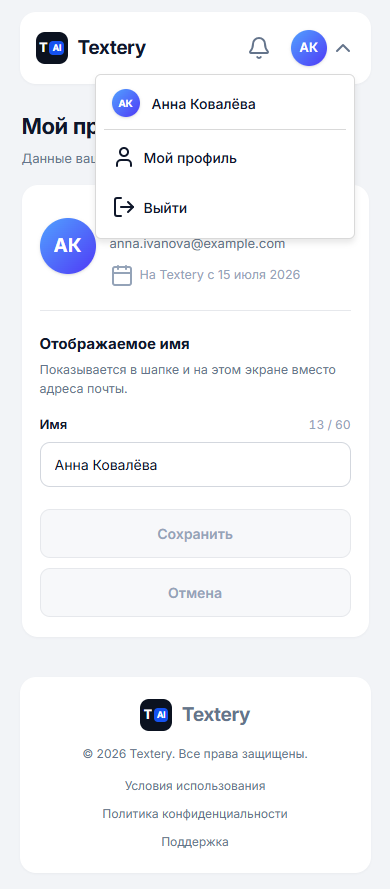
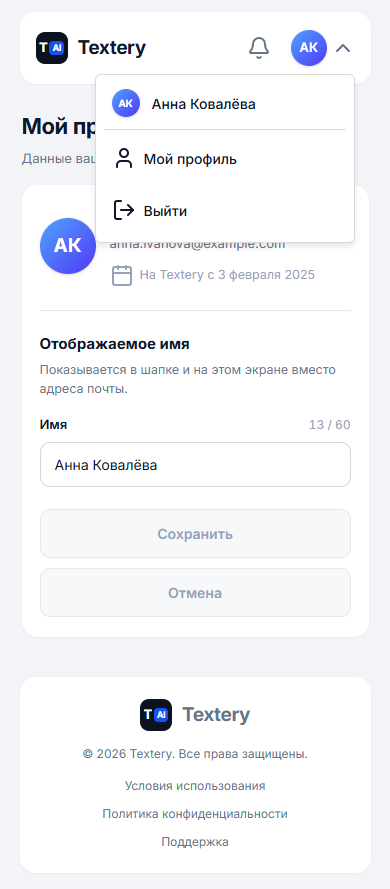
docs(story-13): fix three mockups that contradicted themselves
The two review passes over the previous commit found three places where the mockups
asserted something the same commit disproved. All three are corrected here; the findings
they could not close are written into progress.md addressed to the step that owns them.

The loading placeholder did not shimmer. `.sk-ava` and `.avatar.is-placeholder` both set
the `background` SHORTHAND, which drops the gradient and the background-size `.sk` had
just declared — so the avatar rendered flat while the input skeleton beside it animated.
Four places in that commit claimed otherwise, including the ui-conventions table and the
comparison strip whose entire job is proving загрузка ≠ отказ. With the animation dead
the two states differed by a hairline. The fill now sits behind `:not(.sk)` so source
order cannot silently swap the two rules back.

The registration date was drawn with a year formatCardDate would not print.
`showYear = parsedYear !== new Date().getFullYear()` suppresses the current year — right
for a card's "last edited", almost certainly wrong for a registration date. The drawn
date moves to a past year so the screen is reproducible with the formatter it names, and
the real question is written down for /test-spec rather than smoothed over.

A comment pointed at a banner that does not exist. There is no save-failure state in
these mockups because there is none in the spec's §Screen States — the whole write path
[…]

diff --git a/ProductSpecification/stories/13-profile-management/mockups/desktop/05-profile-validation-error.html b/ProductSpecification/stories/13-profile-management/mockups/desktop/05-profile-validation-error.html
@@ -13,8 +13,18 @@
 <!-- Имя ровно 61 code point (граница домена — 60 после trim и NFC). Счётчик считает те же
      единицы, что и сервер: на эмодзи .length разошёлся бы с ним вдвое.
      Поле сохраняет набранное — пользователь дописывает, а не набирает заново.
-     Канал ровно один: инлайн под полем, для тела {error_code, message} с ответа 400.
-     Баннер наверху карточки — про «до сервера не дошло» (см. 06), и путать их нельзя. -->
+
+     ВАЖНО про стадию, а не только про единицу: считать надо значение ПОСЛЕ trim и NFC —
+     это то, что ограничивает сервер. Иначе NFD-имя из 60 символов (120 code points до
+     нормализации) покажет «120 / 60» и «Сохранить» останется выключенным, хотя сервер
+     принял бы его 200 (AcceptanceCriteria: «An NFD fixture … accepted 200»). То же с
+     хвостовым пробелом. Нарисованная строка — 61 и в сыром, и в нормализованном виде,
+     поэтому расхождение на этом экране не видно; /test-spec обязан завести отдельный кейс.
+
+     Канал здесь ровно один — инлайн под полем, для тела {error_code, message} с 400.
+     Второй канал (баннер «до сервера не дошло», 5xx и обрыв сети на PATCH) в этой партии
+     макетов НЕ нарисован: в списке Screen States спецификации нет состояния «сохранение не
+     удалось». Это дыра спецификации, а не забытый файл — см. progress.md. -->
 
 <div class="header">
   <div class="logo"><div class="logo-mark">T<span>AI</span></div>Textery</div>
@@ -41,7 +51,7 @@
           <!-- Личность остаётся прежней: отказ ничего не записал. -->
           <div class="primary">Анна Ковалёва</div>
           <div class="secondary">anna.ivanova@example.com</div>
-          <div class="since"><i data-lucide="calendar"></i>На Textery с 15 июля 2026</div>
+          <div class="since"><i data-lucide="calendar"></i>На Textery с 3 февраля 2025</div>
         </div>
       </div>
 

diff --git a/ProductSpecification/stories/13-profile-management/mockups/mobile/05-profile-validation-error.html b/ProductSpecification/stories/13-profile-management/mockups/mobile/05-profile-validation-error.html
@@ -14,8 +14,18 @@
 <!-- Имя ровно 61 code point (граница домена — 60 после trim и NFC). Счётчик считает те же
      единицы, что и сервер: на эмодзи .length разошёлся бы с ним вдвое.
      Поле сохраняет набранное — пользователь дописывает, а не набирает заново.
-     Канал ровно один: инлайн под полем, для тела {error_code, message} с ответа 400.
-     Баннер наверху карточки — про «до сервера не дошло» (см. 06), и путать их нельзя. -->
+
+     ВАЖНО про стадию, а не только про единицу: считать надо значение ПОСЛЕ trim и NFC —
+     это то, что ограничивает сервер. Иначе NFD-имя из 60 символов (120 code points до
+     нормализации) покажет «120 / 60» и «Сохранить» останется выключенным, хотя сервер
+     принял бы его 200 (AcceptanceCriteria: «An NFD fixture … accepted 200»). То же с
+     хвостовым пробелом. Нарисованная строка — 61 и в сыром, и в нормализованном виде,
+     поэтому расхождение на этом экране не видно; /test-spec обязан завести отдельный кейс.
+
+     Канал здесь ровно один — инлайн под полем, для тела {error_code, message} с 400.
+     Второй канал (баннер «до сервера не дошло», 5xx и обрыв сети на PATCH) в этой партии
+     макетов НЕ нарисован: в списке Screen States спецификации нет состояния «сохранение не
+     удалось». Это дыра спецификации, а не забытый файл — см. progress.md. -->
 
 <div class="header">
   <div class="logo"><div class="logo-mark">T<span>AI</span></div>Textery</div>
@@ -42,7 +52,7 @@
           <!-- Личность остаётся прежней: отказ ничего не записал. -->
           <div class="primary">Анна Ковалёва</div>
           <div class="secondary">anna.ivanova@example.com</div>
-          <div class="since"><i data-lucide="calendar"></i>На Textery с 15 июля 2026</div>
+          <div class="since"><i data-lucide="calendar"></i>На Textery с 3 февраля 2025</div>
         </div>
       </div>
 

diff --git a/ProductSpecification/stories/13-profile-management/mockups/desktop/profile.css b/ProductSpecification/stories/13-profile-management/mockups/desktop/profile.css
@@ -52,13 +52,22 @@
    /me this state is every page for the length of a request, not an edge case. */
 .sk { background: linear-gradient(90deg, var(--bg-sunken), #eef0f4, var(--bg-sunken));
   background-size: 200% 100%; animation: sh 1.3s ease-in-out infinite; border-radius: 6px; }
-/* The placeholder keeps the avatar's circle: a shape that changes when the response lands is
-   the same pop the placeholder exists to prevent, just one step later. */
-.avatar.sk, .ava.sk { border-radius: 50%; }
+/* Re-asserted at two classes because `.avatar.is-placeholder` and `.sk-ava` below both set the
+   `background` SHORTHAND, which silently drops `.sk`'s gradient and its size — the first cut of
+   this file shipped a placeholder that did not move at all, leaving the загрузка/отказ pair
+   distinguishable only by a hairline. The circle is here for the same reason: a placeholder
+   whose shape changes when the response lands is the pop it exists to prevent, one step later. */
+.avatar.sk, .ava.sk, .sk-ava.sk {
+  border-radius: 50%;
+  background: linear-gradient(90deg, var(--bg-sunken), #eef0f4, var(--bg-sunken));
+  background-size: 200% 100%;
+}
 @keyframes sh { 0% { background-position: 200% 0; } 100% { background-position: -200% 0; } }
+/* `:not(.sk)` on the fill so the flat fallback cannot outrank the shimmer above by source
+   order — the two rules would otherwise be one reshuffle away from silently swapping. */
 .sk-ava { width: 72px; height: 72px; border-radius: 50%; flex: none; display: flex;
-  align-items: center; justify-content: center; color: var(--text-muted);
-  background: var(--bg-sunken); box-shadow: none; }
+  align-items: center; justify-content: center; color: var(--text-muted); box-shadow: none; }
+.sk-ava:not(.sk) { background: var(--bg-sunken); }
 .sk-ava i { width: 30px; height: 30px; }
 .sk-line { height: 12px; }
 .sk-input { height: 48px; border-radius: var(--radius-md); }
@@ -70,7 +79,8 @@
   background: var(--bg-sunken); border: 1.5px dashed var(--border-strong);
   color: var(--text-muted); box-shadow: none;
 }
-.avatar.is-placeholder { background: var(--bg-sunken); color: var(--text-muted); box-shadow: none; }
+.avatar.is-placeholder { color: var(--text-muted); box-shadow: none; }
+.avatar.is-placeholder:not(.sk) { background: var(--bg-sunken); }
 .avatar i, .ava i { width: 18px; height: 18px; }
 .ava.is-degraded i { width: 28px; height: 28px; }
 

diff --git a/ProductSpecification/stories/13-profile-management/mockups/desktop/02-profile-named.html b/ProductSpecification/stories/13-profile-management/mockups/desktop/02-profile-named.html
@@ -13,7 +13,12 @@
 <!-- GET /me ответил 200 с непустым name. Личность — имя, адрес остаётся второй строкой:
      он никуда не девается, им пользователь входит. Инициалы «АК» посчитаны от имени;
      в состоянии 03 (имени нет) на том же аккаунте они «AI» — от адреса.
-     Дата регистрации рендерится существующим formatCardDate (ru-RU, родительный падеж). -->
+     Дата регистрации рендерится существующим formatCardDate (ru-RU, родительный падеж).
+     Дата намеренно прошлогодняя: formatCardDate прячет год, когда он совпадает с текущим
+     (`showYear = parsedYear !== new Date().getFullYear()`), и аккаунт, заведённый в этом году,
+     покажет «3 февраля» без года. Для «последнего изменения» на карточке это верно, для даты
+     регистрации — вряд ли. ОТКРЫТЫЙ ВОПРОС для /test-spec: либо год показывается всегда (тогда
+     нужен флаг у форматтера), либо это принимается сознательно. -->
 
 <div class="header">
   <div class="logo"><div class="logo-mark">T<span>AI</span></div>Textery</div>
@@ -39,7 +44,7 @@
         <div class="who">
           <div class="primary">Анна Ковалёва</div>
           <div class="secondary">anna.ivanova@example.com</div>
-          <div class="since"><i data-lucide="calendar"></i>На Textery с 15 июля 2026</div>
+          <div class="since"><i data-lucide="calendar"></i>На Textery с 3 февраля 2025</div>
         </div>
       </div>
 

diff --git a/ProductSpecification/stories/13-profile-management/mockups/mobile/02-profile-named.html b/ProductSpecification/stories/13-profile-management/mockups/mobile/02-profile-named.html
@@ -14,7 +14,12 @@
 <!-- GET /me ответил 200 с непустым name. Личность — имя, адрес остаётся второй строкой:
      он никуда не девается, им пользователь входит. Инициалы «АК» посчитаны от имени;
      в состоянии 03 (имени нет) на том же аккаунте они «AI» — от адреса.
-     Дата регистрации рендерится существующим formatCardDate (ru-RU, родительный падеж). -->
+     Дата регистрации рендерится существующим formatCardDate (ru-RU, родительный падеж).
+     Дата намеренно прошлогодняя: formatCardDate прячет год, когда он совпадает с текущим
+     (`showYear = parsedYear !== new Date().getFullYear()`), и аккаунт, заведённый в этом году,
+     покажет «3 февраля» без года. Для «последнего изменения» на карточке это верно, для даты
+     регистрации — вряд ли. ОТКРЫТЫЙ ВОПРОС для /test-spec: либо год показывается всегда (тогда
+     нужен флаг у форматтера), либо это принимается сознательно. -->
 
 <div class="header">
   <div class="logo"><div class="logo-mark">T<span>AI</span></div>Textery</div>
@@ -40,7 +45,7 @@
         <div class="who">
           <div class="primary">Анна Ковалёва</div>
           <div class="secondary">anna.ivanova@example.com</div>
-          <div class="since"><i data-lucide="calendar"></i>На Textery с 15 июля 2026</div>
+          <div class="since"><i data-lucide="calendar"></i>На Textery с 3 февраля 2025</div>
         </div>
       </div>
 

diff --git a/ProductSpecification/stories/13-profile-management/mockups/mobile/mobile.css b/ProductSpecification/stories/13-profile-management/mockups/mobile/mobile.css
@@ -1,7 +1,9 @@
 /* Textery — «Мой профиль», мобильные правки (story 13).
    Загружается ПОСЛЕ ../desktop/theme.css и ../desktop/profile.css и только переопределяет их:
    вторая копия правил разошлась бы с десктопной при первой же правке.
-   Все нажимаемые цели — не меньше 44px. */
+   Нажимаемые цели — не меньше 44px, с одним намеренным исключением: аватар-триггер 36px,
+   как у уже реализованного ProfileMenu на ≤640px. Он не одинокая цель — вокруг него
+   `.profile-trigger` с шевроном, и вся связка выше 44px по высоте шапки. */
 
 body { max-width: 375px; margin: 0 auto; }
 
@@ -50,7 +52,8 @@ h1 { font-size: 22px; }
 
 /* Панель меню не может быть шире экрана: якорь по правому краю плюс запас на поля шапки. */
 .profile-panel { width: calc(100vw - 44px); max-width: 260px; }
-.panel-item { padding: 11px 8px; }
+/* 12px + 12px + 21px строки = 45px: 11px давало 43px и не дотягивало до порога. */
+.panel-item { padding: 12px 8px; }
 
 .compare { max-width: none; margin-top: 20px; padding: 18px; }
 .compare .pair { flex-direction: column; gap: 16px; }

diff --git a/ProductSpecification/stories/13-profile-management/mockups/desktop/07-avatar-menu.html b/ProductSpecification/stories/13-profile-management/mockups/desktop/07-avatar-menu.html
@@ -53,7 +53,7 @@
         <div class="who">
           <div class="primary">Анна Ковалёва</div>
           <div class="secondary">anna.ivanova@example.com</div>
-          <div class="since"><i data-lucide="calendar"></i>На Textery с 15 июля 2026</div>
+          <div class="since"><i data-lucide="calendar"></i>На Textery с 3 февраля 2025</div>
         </div>
       </div>
 

diff --git a/ProductSpecification/stories/13-profile-management/mockups/mobile/07-avatar-menu.html b/ProductSpecification/stories/13-profile-management/mockups/mobile/07-avatar-menu.html
@@ -54,7 +54,7 @@
         <div class="who">
           <div class="primary">Анна Ковалёва</div>
           <div class="secondary">anna.ivanova@example.com</div>
-          <div class="since"><i data-lucide="calendar"></i>На Textery с 15 июля 2026</div>
+          <div class="since"><i data-lucide="calendar"></i>На Textery с 3 февраля 2025</div>
         </div>
       </div>
 

diff --git a/ProductSpecification/stories/13-profile-management/mockups/desktop/03-profile-unnamed.html b/ProductSpecification/stories/13-profile-management/mockups/desktop/03-profile-unnamed.html
@@ -39,7 +39,7 @@
         <div class="who">
           <div class="primary">anna.ivanova@example.com</div>
           <div class="secondary">Имя не задано</div>
-          <div class="since"><i data-lucide="calendar"></i>На Textery с 15 июля 2026</div>
+          <div class="since"><i data-lucide="calendar"></i>На Textery с 3 февраля 2025</div>
         </div>
       </div>
 

diff --git a/ProductSpecification/stories/13-profile-management/mockups/desktop/04-profile-saving.html b/ProductSpecification/stories/13-profile-management/mockups/desktop/04-profile-saving.html
@@ -38,7 +38,7 @@
         <div class="who">
           <div class="primary">anna.ivanova@example.com</div>
           <div class="secondary">Имя не задано</div>
-          <div class="since"><i data-lucide="calendar"></i>На Textery с 15 июля 2026</div>
+          <div class="since"><i data-lucide="calendar"></i>На Textery с 3 февраля 2025</div>
         </div>
       </div>
 

diff --git a/ProductSpecification/stories/13-profile-management/mockups/mobile/03-profile-unnamed.html b/ProductSpecification/stories/13-profile-management/mockups/mobile/03-profile-unnamed.html
@@ -40,7 +40,7 @@
         <div class="who">
           <div class="primary">anna.ivanova@example.com</div>
           <div class="secondary">Имя не задано</div>
-          <div class="since"><i data-lucide="calendar"></i>На Textery с 15 июля 2026</div>
+          <div class="since"><i data-lucide="calendar"></i>На Textery с 3 февраля 2025</div>
         </div>
       </div>
 

diff --git a/ProductSpecification/stories/13-profile-management/mockups/mobile/04-profile-saving.html b/ProductSpecification/stories/13-profile-management/mockups/mobile/04-profile-saving.html
@@ -39,7 +39,7 @@
         <div class="who">
           <div class="primary">anna.ivanova@example.com</div>
           <div class="secondary">Имя не задано</div>
-          <div class="since"><i data-lucide="calendar"></i>На Textery с 15 июля 2026</div>
+          <div class="since"><i data-lucide="calendar"></i>На Textery с 3 февраля 2025</div>
         </div>
       </div>
 
